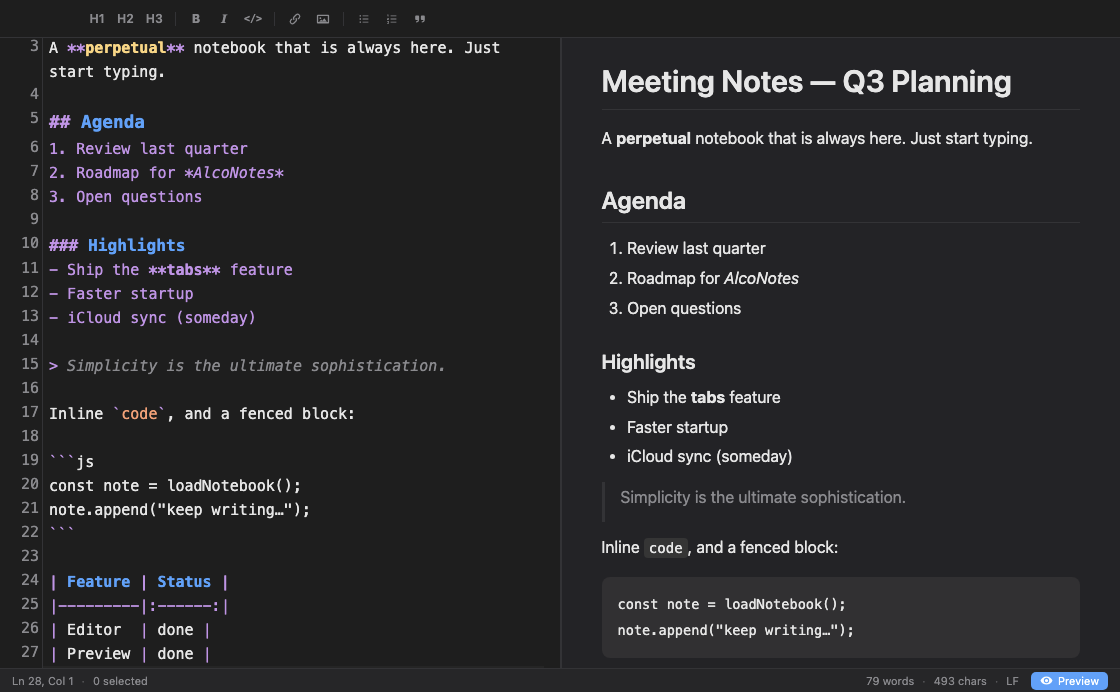
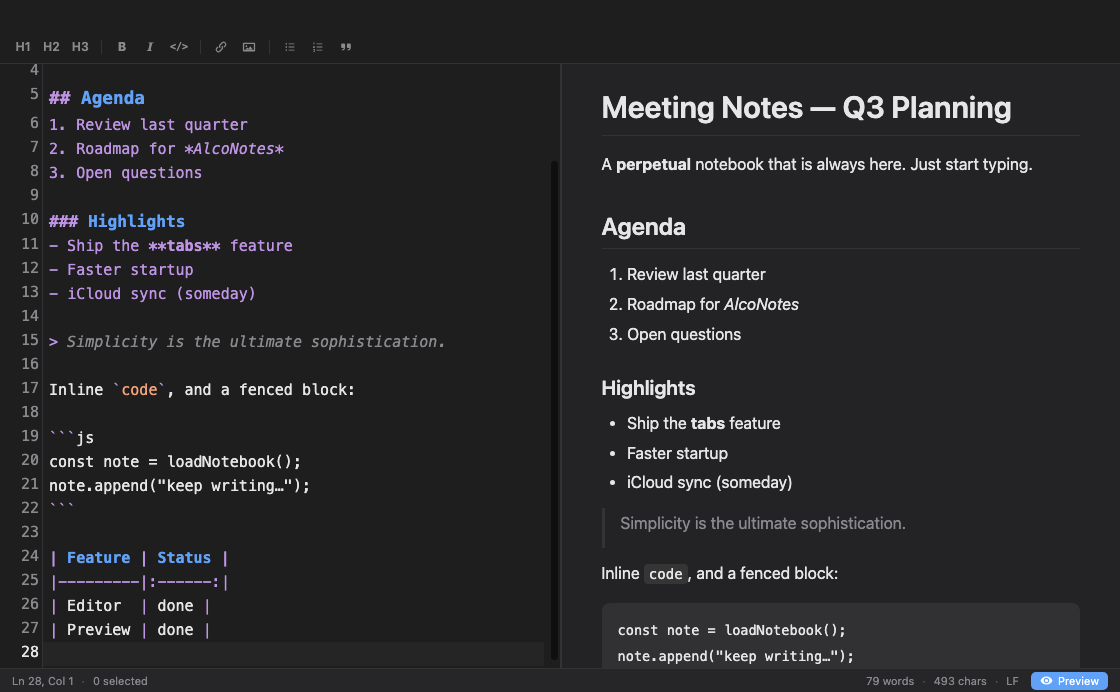
fix: move formatting toolbar out of the title bar into its own row

diff --git a/index.html b/index.html
@@ -9,33 +9,32 @@
   </head>
   <body>
     <div id="app">
-      <div id="titlebar-drag">
-        <div id="toolbar">
-          <button type="button" data-format="h1" title="Heading 1 (⌘1)">H1</button>
-          <button type="button" data-format="h2" title="Heading 2 (⌘2)">H2</button>
-          <button type="button" data-format="h3" title="Heading 3 (⌘3)">H3</button>
-          <span class="tb-sep"></span>
-          <button type="button" data-format="bold" title="Bold (⌘B)"><span class="g-bold">B</span></button>
-          <button type="button" data-format="italic" title="Italic (⌘I)"><span class="g-italic">I</span></button>
-          <button type="button" data-format="code" title="Inline Code (⌘K)"><span class="g-code">&lt;/&gt;</span></button>
-          <span class="tb-sep"></span>
-          <button type="button" data-format="link" title="Link (⌘⇧K)">
-            <svg viewBox="0 0 16 16" width="14" height="14" aria-hidden="true"><path fill="currentColor" d="M9.4 6.6a3.2 3.2 0 0 1 0 4.5l-2.3 2.3a3.2 3.2 0 0 1-4.5-4.5l1.5-1.5 1 1-1.5 1.5a1.8 1.8 0 0 0 2.5 2.5l2.3-2.3a1.8 1.8 0 0 0 0-2.5l1-1Zm-2.8 2.8a3.2 3.2 0 0 1 0-4.5l2.3-2.3a3.2 3.2 0 0 1 4.5 4.5l-1.5 1.5-1-1 1.5-1.5a1.8 1.8 0 0 0-2.5-2.5L7.6 5.9a1.8 1.8 0 0 0 0 2.5l-1 1Z"/></svg>
-          </button>
-          <button type="button" data-format="image" title="Image (⌘⇧I)">
-            <svg viewBox="0 0 16 16" width="14" height="14" aria-hidden="true"><path fill="currentColor" d="M2 3h12a1 1 0 0 1 1 1v8a1 1 0 0 1-1 1H2a1 1 0 0 1-1-1V4a1 1 0 0 1 1-1Zm.5 1.5v7h11v-7h-11ZM5 6a1 1 0 1 1 0 2 1 1 0 0 1 0-2Zm-1.5 5h9l-3-4-2.25 3-1.25-1.5-2.5 2.5Z"/></svg>
-          </button>
-          <span class="tb-sep"></span>
-          <button type="button" data-format="ul" title="Bulleted List (⌘⇧8)">
-            <svg viewBox="0 0 16 16" width="14" height="14" aria-hidden="true"><path fill="currentColor" d="M3 3.6h1.6v1.6H3V3.6Zm3.4.3H13v1H6.4v-1ZM3 7.2h1.6v1.6H3V7.2Zm3.4.3H13v1H6.4v-1ZM3 10.8h1.6v1.6H3v-1.6Zm3.4.3H13v1H6.4v-1Z"/></svg>
-          </button>
-          <button type="button" data-format="ol" title="Numbered List (⌘⇧7)">
-            <svg viewBox="0 0 16 16" width="14" height="14" aria-hidden="true"><path fill="currentColor" d="M6.4 3.9H13v1H6.4v-1Zm0 3.6H13v1H6.4v-1Zm0 3.6H13v1H6.4v-1ZM3.9 2.8v2.4h-.8V3.7l-.6.3v-.8l.9-.4h.5Zm-1.4 4h1.9v.7l-1 .9h1v.7h-2v-.7l1-.9h-.9v-.7Zm0 3.6h1.9v1.1l-.4.4.4.4v1.1H2.5v-.7h1.1v-.4l-.5-.4.5-.4v-.4H2.5v-.7Z"/></svg>
-          </button>
-          <button type="button" data-format="quote" title="Blockquote (⌘⇧.)">
-            <svg viewBox="0 0 16 16" width="14" height="14" aria-hidden="true"><path fill="currentColor" d="M3.5 4H6a1 1 0 0 1 1 1v3.5A3.5 3.5 0 0 1 3.5 12v-1.4c1 0 1.9-.7 2-1.6H3.5a1 1 0 0 1-1-1V5a1 1 0 0 1 1-1Zm6.5 0h2.5a1 1 0 0 1 1 1v3.5a3.5 3.5 0 0 1-3.5 3.5v-1.4c1 0 1.9-.7 2-1.6H10a1 1 0 0 1-1-1V5a1 1 0 0 1 1-1Z"/></svg>
-          </button>
-        </div>
+      <div id="titlebar-drag"></div>
+      <div id="toolbar">
+        <button type="button" data-format="h1" title="Heading 1 (⌘1)">H1</button>
+        <button type="button" data-format="h2" title="Heading 2 (⌘2)">H2</button>
+        <button type="button" data-format="h3" title="Heading 3 (⌘3)">H3</button>
+        <span class="tb-sep"></span>
+        <button type="button" data-format="bold" title="Bold (⌘B)"><span class="g-bold">B</span></button>
+        <button type="button" data-format="italic" title="Italic (⌘I)"><span class="g-italic">I</span></button>
+        <button type="button" data-format="code" title="Inline Code (⌘K)"><span class="g-code">&lt;/&gt;</span></button>
+        <span class="tb-sep"></span>
+        <button type="button" data-format="link" title="Link (⌘⇧K)">
+          <svg viewBox="0 0 16 16" width="14" height="14" aria-hidden="true"><path fill="currentColor" d="M9.4 6.6a3.2 3.2 0 0 1 0 4.5l-2.3 2.3a3.2 3.2 0 0 1-4.5-4.5l1.5-1.5 1 1-1.5 1.5a1.8 1.8 0 0 0 2.5 2.5l2.3-2.3a1.8 1.8 0 0 0 0-2.5l1-1Zm-2.8 2.8a3.2 3.2 0 0 1 0-4.5l2.3-2.3a3.2 3.2 0 0 1 4.5 4.5l-1.5 1.5-1-1 1.5-1.5a1.8 1.8 0 0 0-2.5-2.5L7.6 5.9a1.8 1.8 0 0 0 0 2.5l-1 1Z"/></svg>
+        </button>
+        <button type="button" data-format="image" title="Image (⌘⇧I)">
+          <svg viewBox="0 0 16 16" width="14" height="14" aria-hidden="true"><path fill="currentColor" d="M2 3h12a1 1 0 0 1 1 1v8a1 1 0 0 1-1 1H2a1 1 0 0 1-1-1V4a1 1 0 0 1 1-1Zm.5 1.5v7h11v-7h-11ZM5 6a1 1 0 1 1 0 2 1 1 0 0 1 0-2Zm-1.5 5h9l-3-4-2.25 3-1.25-1.5-2.5 2.5Z"/></svg>
+        </button>
+        <span class="tb-sep"></span>
+        <button type="button" data-format="ul" title="Bulleted List (⌘⇧8)">
+          <svg viewBox="0 0 16 16" width="14" height="14" aria-hidden="true"><path fill="currentColor" d="M3 3.6h1.6v1.6H3V3.6Zm3.4.3H13v1H6.4v-1ZM3 7.2h1.6v1.6H3V7.2Zm3.4.3H13v1H6.4v-1ZM3 10.8h1.6v1.6H3v-1.6Zm3.4.3H13v1H6.4v-1Z"/></svg>
+        </button>
+        <button type="button" data-format="ol" title="Numbered List (⌘⇧7)">
+          <svg viewBox="0 0 16 16" width="14" height="14" aria-hidden="true"><path fill="currentColor" d="M6.4 3.9H13v1H6.4v-1Zm0 3.6H13v1H6.4v-1Zm0 3.6H13v1H6.4v-1ZM3.9 2.8v2.4h-.8V3.7l-.6.3v-.8l.9-.4h.5Zm-1.4 4h1.9v.7l-1 .9h1v.7h-2v-.7l1-.9h-.9v-.7Zm0 3.6h1.9v1.1l-.4.4.4.4v1.1H2.5v-.7h1.1v-.4l-.5-.4.5-.4v-.4H2.5v-.7Z"/></svg>
+        </button>
+        <button type="button" data-format="quote" title="Blockquote (⌘⇧.)">
+          <svg viewBox="0 0 16 16" width="14" height="14" aria-hidden="true"><path fill="currentColor" d="M3.5 4H6a1 1 0 0 1 1 1v3.5A3.5 3.5 0 0 1 3.5 12v-1.4c1 0 1.9-.7 2-1.6H3.5a1 1 0 0 1-1-1V5a1 1 0 0 1 1-1Zm6.5 0h2.5a1 1 0 0 1 1 1v3.5a3.5 3.5 0 0 1-3.5 3.5v-1.4c1 0 1.9-.7 2-1.6H10a1 1 0 0 1-1-1V5a1 1 0 0 1 1-1Z"/></svg>
+        </button>
       </div>
       <main id="workspace" class="view-split">
         <section id="editor-pane">

diff --git a/styles.css b/styles.css
@@ -39,29 +39,28 @@ html, body {
   height: 100vh;
 }
 
-/* Title-bar strip: drag region (macOS traffic lights) + formatting toolbar. */
+/* Reserve space for the macOS traffic lights (hiddenInset title bar). */
 #titlebar-drag {
-  height: 38px;
+  height: 30px;
+  flex: 0 0 auto;
+  -webkit-app-region: drag;
+  background: var(--bg);
+}
+
+/* ---- Formatting toolbar (its own row, below the title bar) ---- */
+#toolbar {
   flex: 0 0 auto;
   display: flex;
   align-items: center;
-  -webkit-app-region: drag;
+  gap: 2px;
+  height: 34px;
+  padding: 0 10px;
   background: var(--bg);
   border-bottom: 1px solid var(--border);
-}
-
-#toolbar {
-  display: flex;
-  align-items: center;
-  gap: 2px;
-  /* Clear the traffic lights on the hiddenInset title bar. */
-  padding: 0 10px 0 84px;
-  -webkit-app-region: drag;
   user-select: none;
 }
 
 #toolbar button {
-  -webkit-app-region: no-drag;
   display: inline-flex;
   align-items: center;
   justify-content: center;